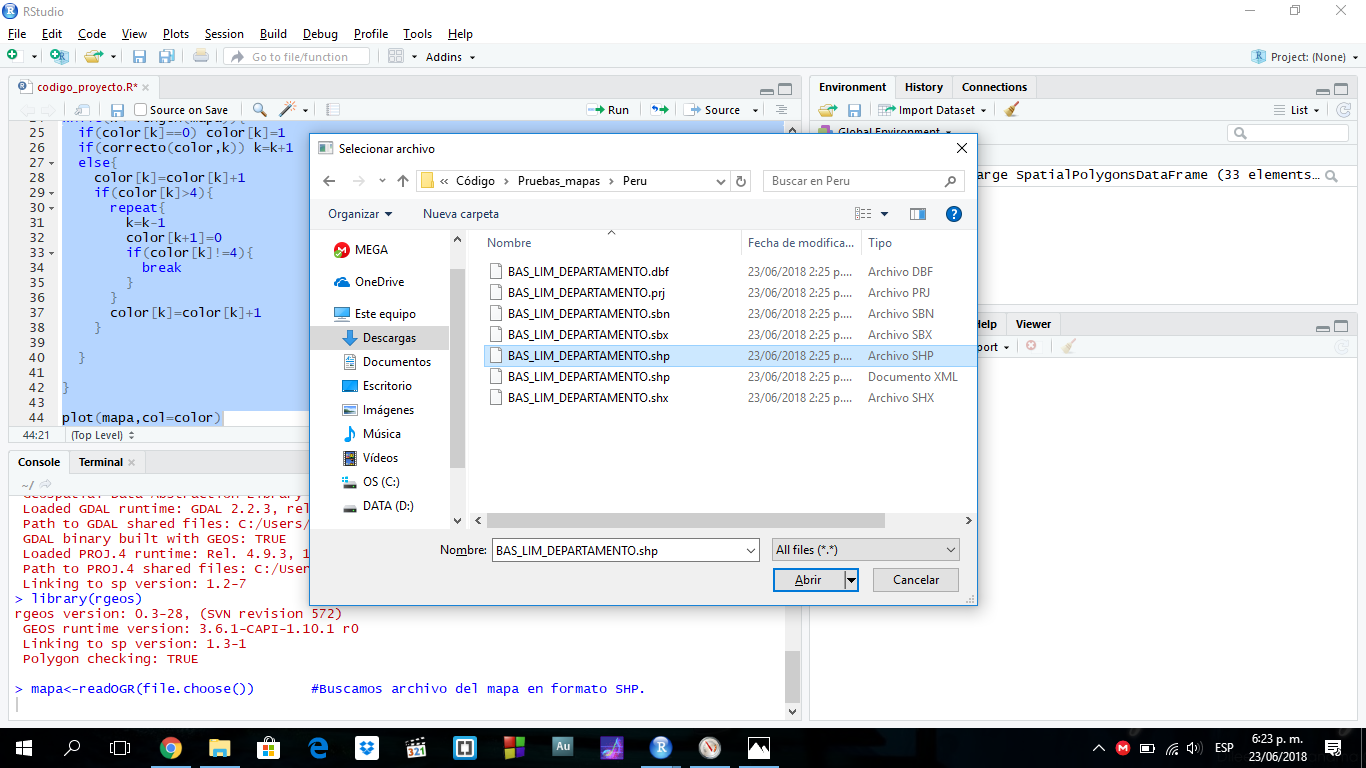
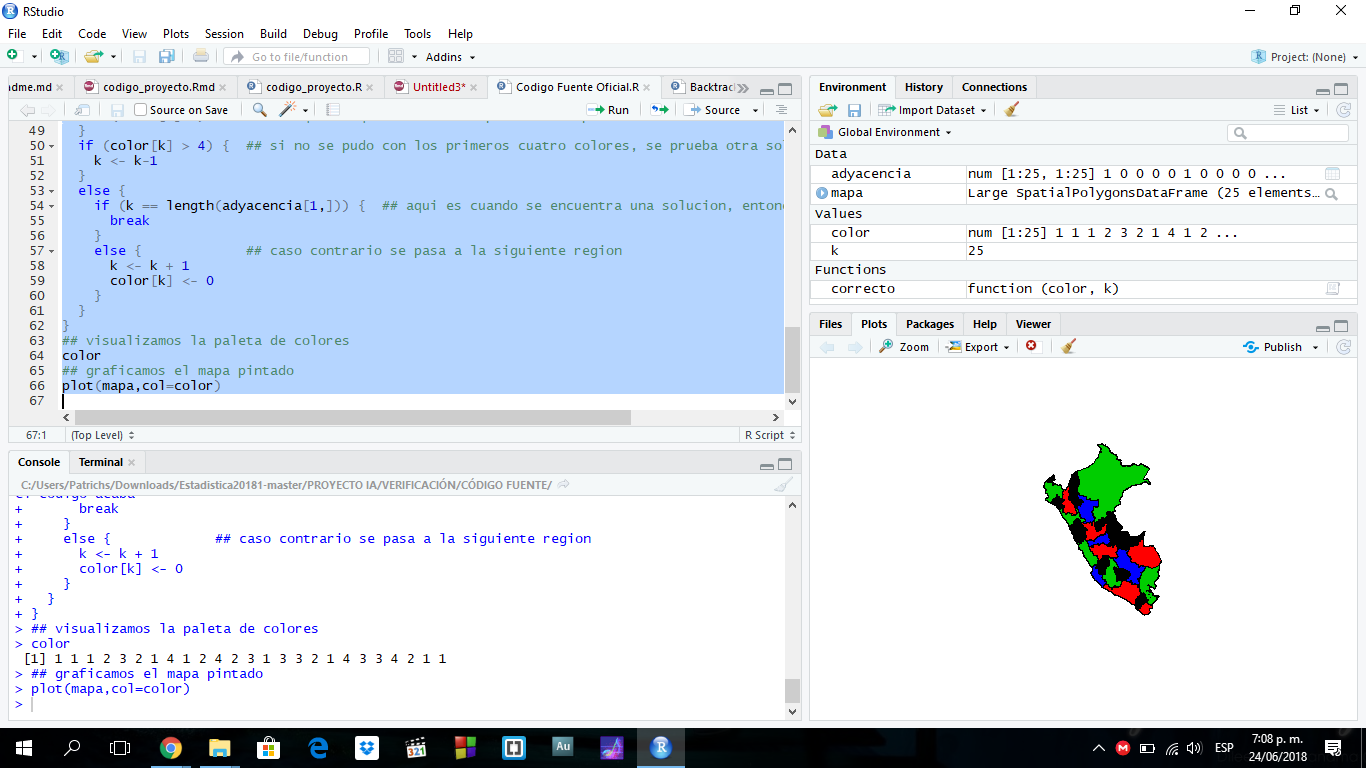
Actualizando

diff --git a/README.md b/README.md
@@ -39,7 +39,7 @@
 
 ![](https://github.com/PatrichsInocenteCM274/Discreta/blob/master/imagenes/imagen4.png)
 
-
+#### 3. Finalizamos la instalación, verificando que el programa se encuentre en nuestro ordenador.
 
 ### Descargar el contenido del proyecto:
 
@@ -49,31 +49,34 @@
 #### 2. Luego de descargar el archivo, proceda a extraer el archivo en el directorio de su preferencia, luego de ello , ingrese a la carpeta "Estadistica20181-master" generada.
 ![](https://github.com/PatrichsInocenteCM274/Discreta/blob/master/imagenes/imagen6.png)
 
-#### 3. Acceda a la carpeta "Código"
+#### 3. Acceda a la carpeta "PROYECTO IA"
 ![](https://github.com/PatrichsInocenteCM274/Discreta/blob/master/imagenes/imagen7.png)
 
-#### 4. Ejecute el archivo "codigo_proyecto.R" con RStdio.
+#### 4. Acceda a la carpeta "VERIFICACIÓN"
+![](https://github.com/PatrichsInocenteCM274/Discreta/blob/master/imagenes/imagen7.1.png)
+
+#### 5. Acceda a la carpeta "CÓDIGO FUENTE"
+![](https://github.com/PatrichsInocenteCM274/Discreta/blob/master/imagenes/imagen7.2.png)
+
+#### 6. Ejecute el archivo "Codigo Fuente Oficial" con RStdio.
 ![](https://github.com/PatrichsInocenteCM274/Discreta/blob/master/imagenes/imagen8.png)
 
-#### 5. Sombree todo el código y seleccione la opción "Run".
+#### 7. Sombree todo el código y seleccione la opción "Run".
 ![](https://github.com/PatrichsInocenteCM274/Discreta/blob/master/imagenes/imagen9.png)
 
-#### 6. Espere que se instalen las librerias "rgdal" y "rgeos", luego de ello aparecera una ventana de seleccion de archivo, con la finalidad de escoger nuestro mapa.
+#### 8. Espere que se instalen las librerias "rgdal" y "rgeos", luego de ello aparecera una ventana de seleccion de archivo, con la finalidad de escoger nuestro mapa. A continuación busque la carpeta "VERIFICACIÓN" entre en ella y seleccione la carpeta "DATOS DE PRUEBA-MAPAS"
 ![](https://github.com/PatrichsInocenteCM274/Discreta/blob/master/imagenes/imagen10.png)
 
-#### 7. Busque la carpeta Pruebas_mapas que se encuentra en el mismo directorio que nuestro código.
+#### 9. Elija el mapa de su preferencia
 ![](https://github.com/PatrichsInocenteCM274/Discreta/blob/master/imagenes/imagen11.png)
 
-#### 8. Elija el mapa de su preferencia
+#### 10. Luego de su selección,busque un archivo con terminación .shp, aqui se alojan los poligonos de nuestro mapa sin colorear, a continuación seleccionamos abrir.
 ![](https://github.com/PatrichsInocenteCM274/Discreta/blob/master/imagenes/imagen12.png)
 
-#### 9. Luego de su selección,busque un archivo con terminación .shp, aqui se alojan los poligonos de nuestro mapa sin colorear, a continuación seleccionamos abrir.
+#### 11. Finalmente obtenemos:
 ![](https://github.com/PatrichsInocenteCM274/Discreta/blob/master/imagenes/imagen13.png)
 
-#### 10. Finalmente obtenemos:
+#### 12. Seleccione la opción "Zoom" y observaremos a detalle nuestro mapa pintado!!!
 ![](https://github.com/PatrichsInocenteCM274/Discreta/blob/master/imagenes/imagen14.png)
-
-#### NUESTRO MAPA PINTADO!!
-![](https://github.com/PatrichsInocenteCM274/Discreta/blob/master/imagenes/imagen15.png)
 
 
